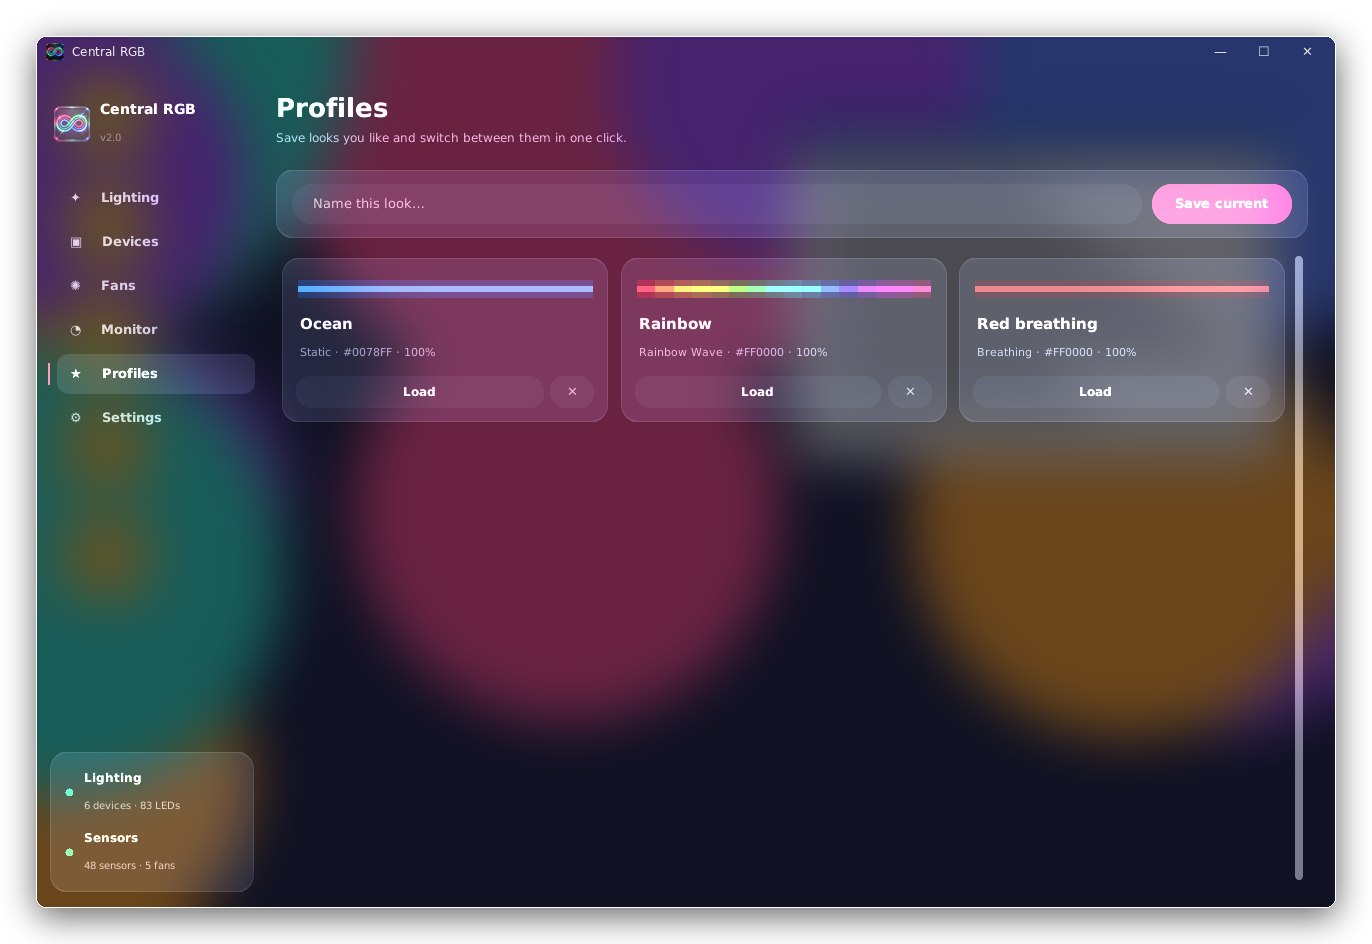
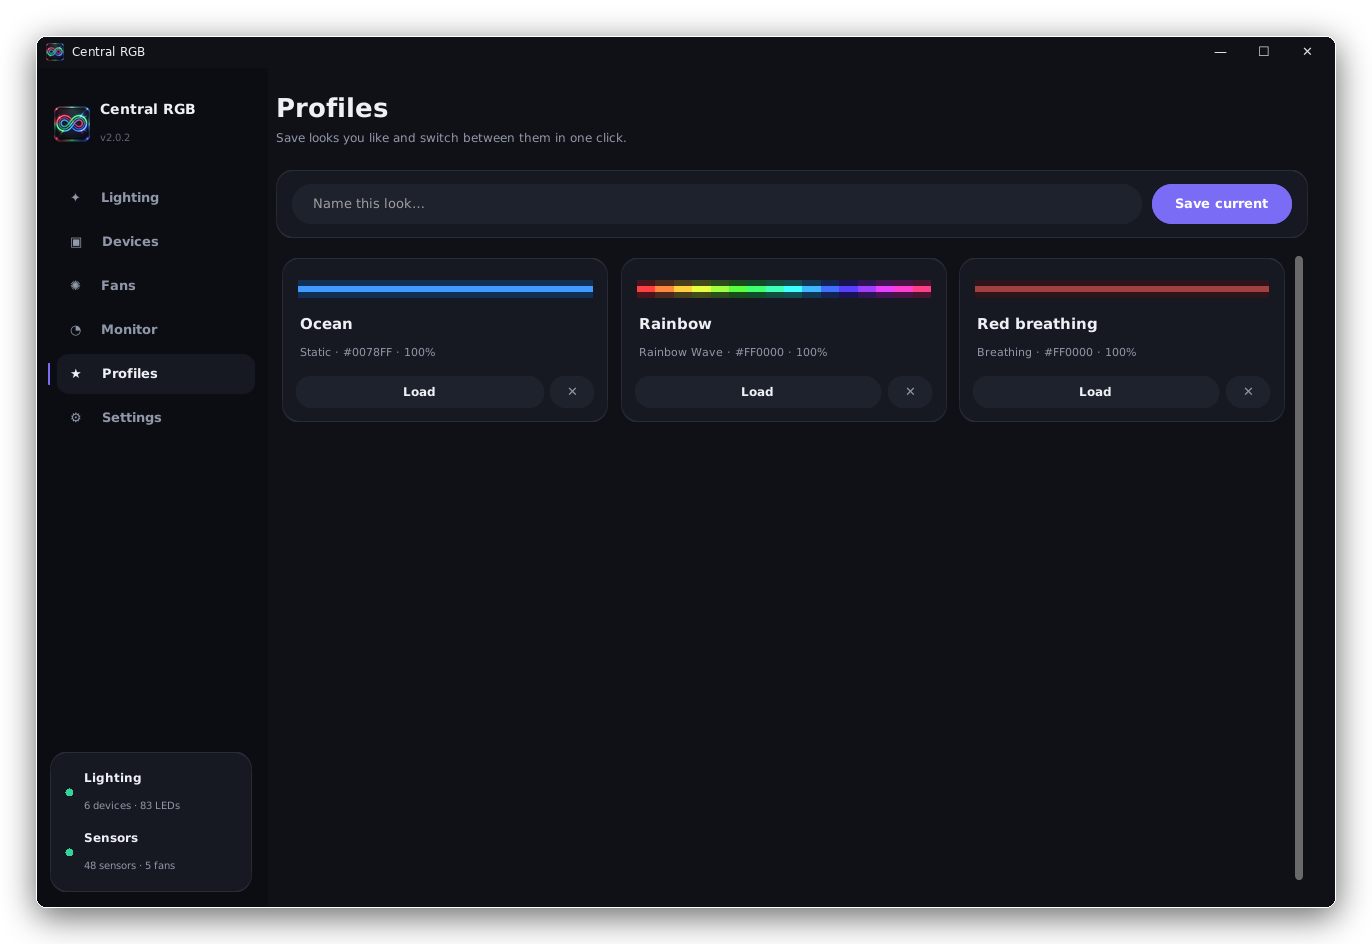
New Midnight theme and fix RGB RAM flicker
- RAM flicker: stop LibreHardwareMonitor polling DIMM temperature sensors over the SMBus,
  which OpenRGB also uses to drive RGB RAM. Optional 'Read RAM temperatures' setting (off by default).
- Solid high-contrast 'Midnight' theme replaces the glass look by default; glass is now opt-in (experimental)
- Windows 11 title bar and border painted to match the app
- Readable text on accent buttons; brand accent by default with an optional 'Match lighting' accent
- Sidebar divider and tighter Settings layout
- README screenshots and demo updated

diff --git a/central_rgb.py b/central_rgb.py
@@ -46,11 +46,12 @@ TASK_NAME = "CentralRGB"
 # blurred desktop; dark panel colours then read as tinted, frosted glass.
 GLASS = dict(BG="#000000", SIDE="#000000", CARD="#14161c", CARD2="#1c1f27", LINE="#262a35",
              TEXT="#f2f4f8", MUTED="#8c94a6", FAINT="#4a5061", TRACK="#22252e")
-SOLID = dict(BG="#0a0b0f", SIDE="#0d0e13", CARD="#13151b", CARD2="#1a1d25", LINE="#232631",
-             TEXT="#f2f4f8", MUTED="#8c94a6", FAINT="#4a5061", TRACK="#20232b")
+# Default "Midnight" theme: solid, high-contrast and crisp on every Windows version.
+SOLID = dict(BG="#0f1117", SIDE="#0b0d12", CARD="#161922", CARD2="#1e222d", LINE="#272c38",
+             TEXT="#eef0f5", MUTED="#9097a8", FAINT="#5d6577", TRACK="#2a2f3b")
 P = dict(SOLID)
 OK, WARN, BAD, INFO = "#34d399", "#fbbf24", "#f87171", "#60a5fa"
-DEFAULT_ACCENT = "#6d7cff"
+DEFAULT_ACCENT = "#7b6cf6"   # brand accent (indigo-violet)
 FONT = "Segoe UI Variable Display" if (eng.IS_WIN and fx.win_build() >= 22000) else ("Segoe UI" if eng.IS_WIN else "DejaVu Sans")
 MONO = "Cascadia Mono" if eng.IS_WIN else "DejaVu Sans Mono"
 
@@ -81,6 +82,13 @@ def hex2rgb(h):
 
 def mix(a, b, t):
     return tuple(x + (y - x) * t for x, y in zip(a, b))
+
+
+def on_color(hex_color) -> str:
+    """Readable text colour (dark or white) for text drawn on top of hex_color."""
+    r, g, b = (c / 255 for c in hex2rgb(hex_color))
+    lum = 0.2126 * r + 0.7152 * g + 0.0722 * b
+    return "#0f1117" if lum > 0.6 else "#ffffff"
 
 
 def F(size, weight="normal"):
@@ -417,7 +425,7 @@ class App(ctk.CTk):
 
     def __init__(self, background=False):
         self.settings = eng.Settings()
-        self.glass = bool(self.settings.data.get("glass", True)) and (fx.glass_supported() or os.environ.get("RGBC_GLASS_PALETTE"))
+        self.glass = bool(self.settings.data.get("glass_experimental", False)) and (fx.glass_supported() or os.environ.get("RGBC_GLASS_PALETTE"))
         P.update(GLASS if self.glass else SOLID)
         ctk.set_appearance_mode("dark")
         super().__init__(fg_color=P["BG"])
@@ -465,6 +473,8 @@ class App(ctk.CTk):
 
     def _window_effects(self):
         fx.dark_titlebar(self)
+        if not self.glass:
+            fx.titlebar_colors(self, P["BG"], P["LINE"], P["TEXT"])   # seamless title bar on Windows 11
         if self.glass and fx.glass_supported():
             fx.apply_glass(self)
         op = int(self.settings.data.get("opacity", 100))
@@ -506,7 +516,7 @@ class App(ctk.CTk):
 
     def primary(self, parent, text, cmd, **kw):
         b = ctk.CTkButton(parent, text=text, command=cmd, fg_color=self.accent, hover_color=self.accent,
-                          text_color="white", font=F(13, "bold"), corner_radius=kw.pop("corner_radius", 22), **kw)
+                          text_color=on_color(self.accent), font=F(13, "bold"), corner_radius=kw.pop("corner_radius", 22), **kw)
         self.accent_widgets.append(("button", b))
         return b
 
@@ -549,6 +559,7 @@ class App(ctk.CTk):
         side.grid(row=0, column=0, sticky="ns")
         side.grid_propagate(False)
         side.pack_propagate(False)
+        ctk.CTkFrame(side, width=1, corner_radius=0, fg_color=P["LINE"]).pack(side="right", fill="y")
         brand = ctk.CTkFrame(side, fg_color="transparent")
         brand.pack(fill="x", padx=18, pady=(28, 6))
         self.logo = tk.Canvas(brand, width=36, height=36, bg=P["SIDE"], highlightthickness=0)
@@ -1192,17 +1203,34 @@ class App(ctk.CTk):
         opt = self.card(top)
         opt.grid(row=0, column=1, sticky="nsew")
         self.caption(opt, "Appearance").pack(fill="x", padx=20, pady=(16, 6))
-        self.glass_sw = ctk.CTkSwitch(opt, text="Frosted glass window", font=F(12), text_color=P["TEXT"],
+        acc_row = ctk.CTkFrame(opt, fg_color="transparent")
+        acc_row.pack(fill="x", padx=20, pady=(2, 6))
+        self.label(acc_row, "Accent color", 12, "bold").pack(side="left")
+        self.accent_seg = ctk.CTkSegmentedButton(acc_row, values=["Central", "Match lighting"], command=self._set_accent_mode,
+                                                 height=28, font=F(11, "bold"), corner_radius=14, fg_color=P["CARD2"],
+                                                 unselected_color=P["CARD2"], unselected_hover_color=P["LINE"],
+                                                 selected_color=self.accent, selected_hover_color=self.accent,
+                                                 text_color=P["TEXT"])
+        self.accent_seg.pack(side="right")
+        self.accent_seg.set("Match lighting" if self.settings.data.get("accent_mode") == "match" else "Central")
+        self.accent_widgets.append(("seg", self.accent_seg))
+        self.glass_sw = ctk.CTkSwitch(opt, text="Frosted glass (experimental)", font=F(12), text_color=P["TEXT"],
                                       command=self._toggle_glass)
         self.glass_sw.pack(anchor="w", padx=20, pady=4)
-        if self.settings.data.get("glass", True):
+        if self.settings.data.get("glass_experimental", False):
             self.glass_sw.select()
         if not fx.glass_supported():
             self.glass_sw.configure(text="Frosted glass (Windows 10/11 only)")
         r, self.opacity = self.slider_row(opt, "Window opacity", int(self.settings.data.get("opacity", 100)),
                                           self._set_opacity, lo=60, hi=100)
         r.pack(fill="x", padx=20, pady=(8, 4))
-        self.caption(opt, "Startup").pack(fill="x", padx=20, pady=(14, 6))
+        self.caption(opt, "Sensors").pack(fill="x", padx=20, pady=(10, 4))
+        self.ramtemp_sw = ctk.CTkSwitch(opt, text="Read RAM temperatures (can make RGB RAM flicker)", font=F(12),
+                                        text_color=P["TEXT"], command=self._toggle_ram_temps)
+        self.ramtemp_sw.pack(anchor="w", padx=20, pady=4)
+        if self.settings.data.get("ram_temps", False):
+            self.ramtemp_sw.select()
+        self.caption(opt, "Startup").pack(fill="x", padx=20, pady=(10, 4))
         self.autostart_sw = ctk.CTkSwitch(opt, text="Start with Windows", font=F(12), text_color=P["TEXT"],
                                           command=self._toggle_autostart)
         self.autostart_sw.pack(anchor="w", padx=20, pady=4)
@@ -1213,11 +1241,11 @@ class App(ctk.CTk):
         self.restore_sw.pack(anchor="w", padx=20, pady=4)
         if self.settings["restore_on_start"]:
             self.restore_sw.select()
-        self.caption(opt, "Helpers").pack(fill="x", padx=20, pady=(14, 6))
+        self.caption(opt, "Helpers").pack(fill="x", padx=20, pady=(10, 4))
         for txt, cmd in (("Get PawnIO driver", lambda: webbrowser.open(eng.PAWNIO_PAGE)),
                          ("Locate OpenRGB.exe", self._browse_openrgb),
                          ("OpenRGB supported devices", lambda: webbrowser.open(eng.RELEASES_PAGE))):
-            self.secondary(opt, txt, cmd, height=32, anchor="w", corner_radius=16).pack(fill="x", padx=20, pady=3)
+            self.secondary(opt, txt, cmd, height=30, anchor="w", corner_radius=16).pack(fill="x", padx=20, pady=2)
         ctk.CTkFrame(opt, fg_color="transparent", height=12).pack()
 
         logc = self.card(p)
@@ -1244,9 +1272,21 @@ class App(ctk.CTk):
 
     def _toggle_glass(self):
         on = self.glass_sw.get() == 1
-        self.settings["glass"] = on
+        self.settings["glass_experimental"] = on
         messagebox.showinfo(eng.APP_NAME, f"Frosted glass will be turned {'on' if on else 'off'} the next time "
-                                          "Central RGB starts.")
+                                          "Central RGB starts." + ("\n\nIt's experimental: panels look lighter and "
+                                          "edges can look rough on some PCs." if on else ""))
+
+    def _toggle_ram_temps(self):
+        on = self.ramtemp_sw.get() == 1
+        self.settings["ram_temps"] = on
+        messagebox.showinfo(eng.APP_NAME, "Restart Central RGB for this to take effect." + (
+            "\n\nReading RAM temperatures shares the RAM's SMBus with the RGB controller, which can make "
+            "RGB RAM blink. Leave this off if you have RGB RAM." if on else ""))
+
+    def _set_accent_mode(self, choice):
+        self.settings["accent_mode"] = "match" if choice == "Match lighting" else "central"
+        self._update_accent()
 
     def _set_opacity(self, v):
         self.settings.data["opacity"] = v
@@ -1266,16 +1306,18 @@ class App(ctk.CTk):
 
     def _update_accent(self):
         h, s, v = colorsys.rgb_to_hsv(*(x / 255 for x in self.color))
-        if self.effect in ("Color Cycle", "Rainbow Wave", "Off") or s < 0.25:
+        match = self.settings.data.get("accent_mode") == "match"
+        if not match or self.effect in ("Color Cycle", "Rainbow Wave", "Off") or s < 0.25:
             acc = DEFAULT_ACCENT
         else:
-            acc = hexcol([c * 255 for c in colorsys.hsv_to_rgb(h, min(1, s) * 0.85, 0.95)])
+            # keep it rich but never neon: cap saturation and brightness so white text stays readable
+            acc = hexcol([c * 255 for c in colorsys.hsv_to_rgb(h, min(s, 0.78), 0.80)])
         self.accent = acc
-        hov = hexcol(mix(hex2rgb(acc), (255, 255, 255), 0.15))
+        hov = hexcol(mix(hex2rgb(acc), (255, 255, 255), 0.12))
         for kind, w in self.accent_widgets:
             try:
                 if kind == "button":
-                    w.configure(fg_color=acc, hover_color=hov)
+                    w.configure(fg_color=acc, hover_color=hov, text_color=on_color(acc))
                 elif kind == "slider":
                     w.configure(progress_color=acc)
                 elif kind == "seg":
@@ -1284,7 +1326,7 @@ class App(ctk.CTk):
                 pass
         for n, t in self.tiles.items():
             t.select(n == self.effect, acc)
-        for sw in (self.autostart_sw, self.restore_sw, self.glass_sw):
+        for sw in (self.autostart_sw, self.restore_sw, self.glass_sw, self.ramtemp_sw):
             sw.configure(progress_color=acc)
         for card in self.device_cards:
             card.switch.configure(progress_color=acc)

diff --git a/hw_monitor.py b/hw_monitor.py
@@ -67,8 +67,9 @@ def interp_curve(points, t: float) -> float:
 class LHMBackend:
     """Thin wrapper around LibreHardwareMonitorLib. Only call from the monitor thread."""
 
-    def __init__(self, log):
+    def __init__(self, log, ram_temps=False):
         self.log = log
+        self.ram_temps = ram_temps   # DIMM temps are read over the SMBus, which RGB RAM also uses
         self.computer = None
         self.controls = {}   # sensor id -> IControl
 
@@ -153,8 +154,14 @@ class LHMBackend:
         from LibreHardwareMonitor.Hardware import Computer
 
         c = Computer()
-        for prop in ("IsCpuEnabled", "IsGpuEnabled", "IsMotherboardEnabled", "IsControllerEnabled",
-                     "IsMemoryEnabled", "IsStorageEnabled", "IsNetworkEnabled", "IsPsuEnabled"):
+        props = ["IsCpuEnabled", "IsGpuEnabled", "IsMotherboardEnabled", "IsControllerEnabled",
+                 "IsStorageEnabled", "IsNetworkEnabled", "IsPsuEnabled"]
+        # LHM's memory group polls each DIMM's temperature chip over the SMBus (and switches SPD pages).
+        # OpenRGB drives RGB RAM over the same bus, so polling it makes RGB RAM flicker. Off by default;
+        # memory usage comes from Windows (psutil) either way.
+        if self.ram_temps:
+            props.append("IsMemoryEnabled")
+        for prop in props:
             try:
                 setattr(c, prop, True)
             except Exception:
@@ -269,7 +276,7 @@ class HardwareMonitor(threading.Thread):
     def run(self):
         psutil.cpu_percent(None)
         if self.backend is None:
-            self.backend = LHMBackend(self.log)
+            self.backend = LHMBackend(self.log, ram_temps=bool(self.settings.data.get("ram_temps", False)))
         try:
             self.backend.open()
             self.status, self.status_msg = "ok", "Sensors online"

diff --git a/win_effects.py b/win_effects.py
@@ -70,6 +70,23 @@ def dark_titlebar(root):
         pass
 
 
+def titlebar_colors(root, caption_hex: str, border_hex: str, text_hex: str):
+    """Windows 11: paint the title bar and window border to match the app (ignored on Windows 10)."""
+    if not IS_WIN or win_build() < 22000:
+        return
+    try:
+        h = _hwnd(root)
+        def cref(hx):
+            hx = hx.lstrip("#")
+            r, g, b = int(hx[0:2], 16), int(hx[2:4], 16), int(hx[4:6], 16)
+            return r | (g << 8) | (b << 16)            # COLORREF = 0x00BBGGRR
+        _dwm_set(h, 35, cref(caption_hex))            # DWMWA_CAPTION_COLOR
+        _dwm_set(h, 34, cref(border_hex))             # DWMWA_BORDER_COLOR
+        _dwm_set(h, 36, cref(text_hex))               # DWMWA_TEXT_COLOR
+    except Exception:
+        pass
+
+
 def apply_glass(root, tint_abgr: int = 0xB0100C0A) -> bool:
     """Turn on blur-behind. Returns True if applied."""
     if not glass_supported():

diff --git a/README.md b/README.md
@@ -11,7 +11,7 @@ A free and open-source Windows desktop app that controls **all the RGB lighting 
 - **Fan control** with Silent, Balanced, Performance and Max profiles, or a **custom fan curve you drag into shape**, with built-in safety limits
 - **System monitor**: live CPU, GPU and memory gauges, network and storage graphs, and an **Advanced** view with every hardware sensor and full system details
 - **Profiles** to save your favorite looks and switch between them in one click
-- **Frosted-glass window**: a modern, translucent interface with a blurred desktop behind it on Windows 10 and 11
+- **Clean dark interface**: a high-contrast "Midnight" theme, a title bar that blends into the app on Windows 11, an optional accent that matches your lighting, and an adjustable window opacity
 - **Starts with Windows** (optional) and reapplies your lighting and fan profile at login
 - **Normal Windows installer**: choose where to install it, and get a desktop shortcut and an uninstaller
 
@@ -58,7 +58,7 @@ You can remove it separately from *Settings → Apps*.
 
 | Requirement | Why |
 |---|---|
-| Windows 10 (1803+) or Windows 11, 64-bit | Hardware access and the frosted-glass window are Windows-only |
+| Windows 10 (1803+) or Windows 11, 64-bit | Hardware access and the window styling are Windows-only |
 | Administrator rights | Needed for RAM and motherboard lighting, sensors and fan control. The .exe asks for them automatically. |
 | [PawnIO](https://pawnio.eu) driver | Low-level driver used by OpenRGB and LibreHardwareMonitor for RGB RAM, older motherboards, fan control and most temperature sensors. **The installer sets it up for you.** If you use the portable .exe, install it yourself from pawnio.eu. |
 | .NET Framework 4.7.2+ | Already built into Windows 10 and 11. Used to load LibreHardwareMonitor. |
@@ -82,7 +82,7 @@ You can remove it separately from *Settings → Apps*.
   </tr>
   <tr>
     <td><img src="assets/screenshots/advanced.png" alt="Monitor advanced view"><br><b>Monitor → Advanced</b>: every sensor (value / min / max) plus full system details</td>
-    <td><img src="assets/screenshots/settings.png" alt="Settings page"><br><b>Settings</b>: system check, frosted glass, opacity, startup options and an activity log</td>
+    <td><img src="assets/screenshots/settings.png" alt="Settings page"><br><b>Settings</b>: system check, accent color, opacity, sensor and startup options, and an activity log</td>
   </tr>
   <tr>
     <td><img src="assets/screenshots/profiles.png" alt="Profiles page"><br><b>Profiles</b>: save a look and load it again in one click</td>
@@ -100,7 +100,7 @@ Central RGB is written in Python. It's split into four modules, each with one jo
 flowchart LR
     UI["central_rgb.py<br/>window & pages"] --> RGB["rgb_engine.py<br/>lighting engine"]
     UI --> HW["hw_monitor.py<br/>sensors & fans"]
-    UI --> FX["win_effects.py<br/>frosted glass"]
+    UI --> FX["win_effects.py<br/>window styling"]
     RGB -- "SDK over TCP :6742" --> ORGB["OpenRGB<br/>(started in the background)"]
     ORGB --> DEV["Motherboard · GPU · RAM<br/>LED strips · peripherals"]
     HW -- "pythonnet" --> LHM["LibreHardwareMonitor<br/>library"]
@@ -113,7 +113,7 @@ flowchart LR
 
 A [CustomTkinter](https://github.com/TomSchimansky/CustomTkinter) app with a sidebar and six pages. Pieces like the color wheel, LED strips, fan curve editor, ring gauges and graphs are custom-drawn on canvases, so they can animate smoothly.
 
-- The interface's **accent color follows the color you pick**: buttons, sliders, switches and highlights all change with it.
+- A deep "Midnight" palette with one indigo-violet accent. Switch **Settings → Accent color** to **Match lighting** and the buttons, sliders and switches take on your lighting color, toned down so text stays readable.
 - Slow work (starting OpenRGB, downloads, the system check) runs on background threads. Results come back to the window through a queue that's checked every 100 ms, so the window never freezes.
 - Everything you change is saved instantly to `%APPDATA%\CentralRGB\settings.json`.
 
@@ -151,7 +151,7 @@ A background thread pushes frames to every selected device:
 1. Downloads the latest LibreHardwareMonitor release (the .NET Framework build) into `%LOCALAPPDATA%\CentralRGB\LHM` the first time.
 2. Starts .NET with [pythonnet](https://github.com/pythonnet/pythonnet). It tries `netfx` first, then `coreclr`.
 3. Hooks `AppDomain.AssemblyResolve`, so LibreHardwareMonitor's dependency DLLs load from its own folder.
-4. Turns on the CPU, GPU, motherboard, controller, memory, storage, network and PSU sensors.
+4. Turns on the CPU, GPU, motherboard, controller, storage, network and PSU sensors. **RAM temperature sensors are off by default.** LibreHardwareMonitor reads them over the SMBus, the same bus OpenRGB uses for RGB RAM, and polling it makes RGB RAM flicker. You can turn them on in Settings if you don't have RGB RAM.
 
 All library calls happen on **one worker thread** (LibreHardwareMonitor isn't thread-safe). The window reads a snapshot from it every second. If the library can't load, the Monitor page still shows basic stats from `psutil`.
 
@@ -179,12 +179,15 @@ EMERGENCY_TEMP = 90   # CPU or GPU at 90 °C or more -> every fan to 100 %
 
 **System details (`system_info()`)** collects your Windows version and build, CPU (cores, threads, cache, socket), motherboard and BIOS, every RAM stick (slot, size, part number, speed), GPUs and driver versions, display resolution, disks and network adapters, all in one PowerShell CIM query.
 
-### 4. Frosted glass: `win_effects.py`
+### 4. Window styling: `win_effects.py`
 
-- **Windows 11 22H2 and later**: uses the system acrylic backdrop (`DwmSetWindowAttribute`, `DWMWA_SYSTEMBACKDROP_TYPE`).
-- **Windows 10 1803 and later**: uses the accent policy (`SetWindowCompositionAttribute`, acrylic blur-behind), falling back to plain blur.
-- The window extends its frame into the client area (`DwmExtendFrameIntoClientArea`). The app paints its background **pure black**, which Windows turns into the blurred desktop, and draws its panels in dark colors that read as tinted glass.
-- It also switches the title bar to dark mode, rounds the corners on Windows 11, and adds an optional whole-window opacity slider (60–100%).
+- Dark title bar on Windows 10 and 11 (`DWMWA_USE_IMMERSIVE_DARK_MODE`).
+- On Windows 11 the title bar, caption text and window border are painted in the app's own colors
+  (`DWMWA_CAPTION_COLOR`, `DWMWA_TEXT_COLOR`, `DWMWA_BORDER_COLOR`), so the window looks like one seamless surface.
+- Rounded window corners on Windows 11, and an optional whole-window opacity slider (60–100%).
+- **Frosted glass (experimental, off by default):** acrylic blur behind the window, using the system backdrop on Windows 11 22H2+
+  or the accent policy on Windows 10. Tk can't draw true translucent panels, so it trades contrast and smooth edges for the blur.
+  That's why the solid theme is the default.
 
 ---
 
@@ -205,7 +208,7 @@ EMERGENCY_TEMP = 90   # CPU or GPU at 90 °C or more -> every fan to 100 %
 | Monitor → Overview | CPU / GPU / RAM gauges and graphs, network up/down, drive usage, uptime, power draw |
 | Monitor → Advanced | Search and filter every sensor, copy full system details to the clipboard |
 | Profiles | Save the current look under a name, then load or delete it later |
-| Settings | System check, frosted glass on/off, opacity, start with Windows, reapply lighting on launch, activity log |
+| Settings | System check, accent color (Central or match lighting), opacity, RAM temperature reading, frosted glass (experimental), start with Windows, reapply lighting on launch, activity log |
 
 > [!IMPORTANT]
 > Animated effects and custom fan profiles only run while Central RGB is open. Closing the window offers to **minimize instead**. If you quit, the lights stay on their last frame and the fans go back to BIOS control.
@@ -247,7 +250,8 @@ py central_rgb.py
 | "OpenRGB closed right after starting" | A copy of OpenRGB is already open without its SDK server. Close it from the system tray and press **Rescan**. |
 | Fans page says no controllable fans | Your motherboard's fan chip may not be supported yet, or its fans are set to a fixed mode in the BIOS |
 | Monitor shows "Basic stats only" | LibreHardwareMonitor couldn't load. Check the Settings → Activity log, and confirm PawnIO is installed and you're running as admin. |
-| The glass window looks wrong | Turn off **Frosted glass** in Settings (takes effect on next launch). Keep opacity at 100% if lowering it removes the blur. |
+| RGB RAM blinks or flickers | Leave **Settings → Read RAM temperatures** off (the default). Reading DIMM temperatures uses the same SMBus that controls RAM lighting. Also close other monitoring tools that read RAM temps (HWiNFO, AIDA64, etc.). |
+| The window looks washed out or has rough edges | Turn off **Frosted glass (experimental)** in Settings and restart the app |
 | Antivirus flags the .exe | New PyInstaller builds are sometimes flagged by mistake. Allow the file, or run from source. |
 
 ---
@@ -259,7 +263,7 @@ CentralRGB/
 ├── central_rgb.py        # window, pages and custom widgets
 ├── rgb_engine.py         # OpenRGB setup, lighting effects, system check, settings
 ├── hw_monitor.py         # LibreHardwareMonitor sensors, fan logic, system details
-├── win_effects.py        # frosted glass, dark title bar, opacity
+├── win_effects.py        # title bar colors, opacity, experimental glass
 ├── central_rgb.ico/.png  # app icon
 ├── central_rgb.iss       # Inno Setup installer script
 ├── build.bat             # one-click build (exe + installer)
